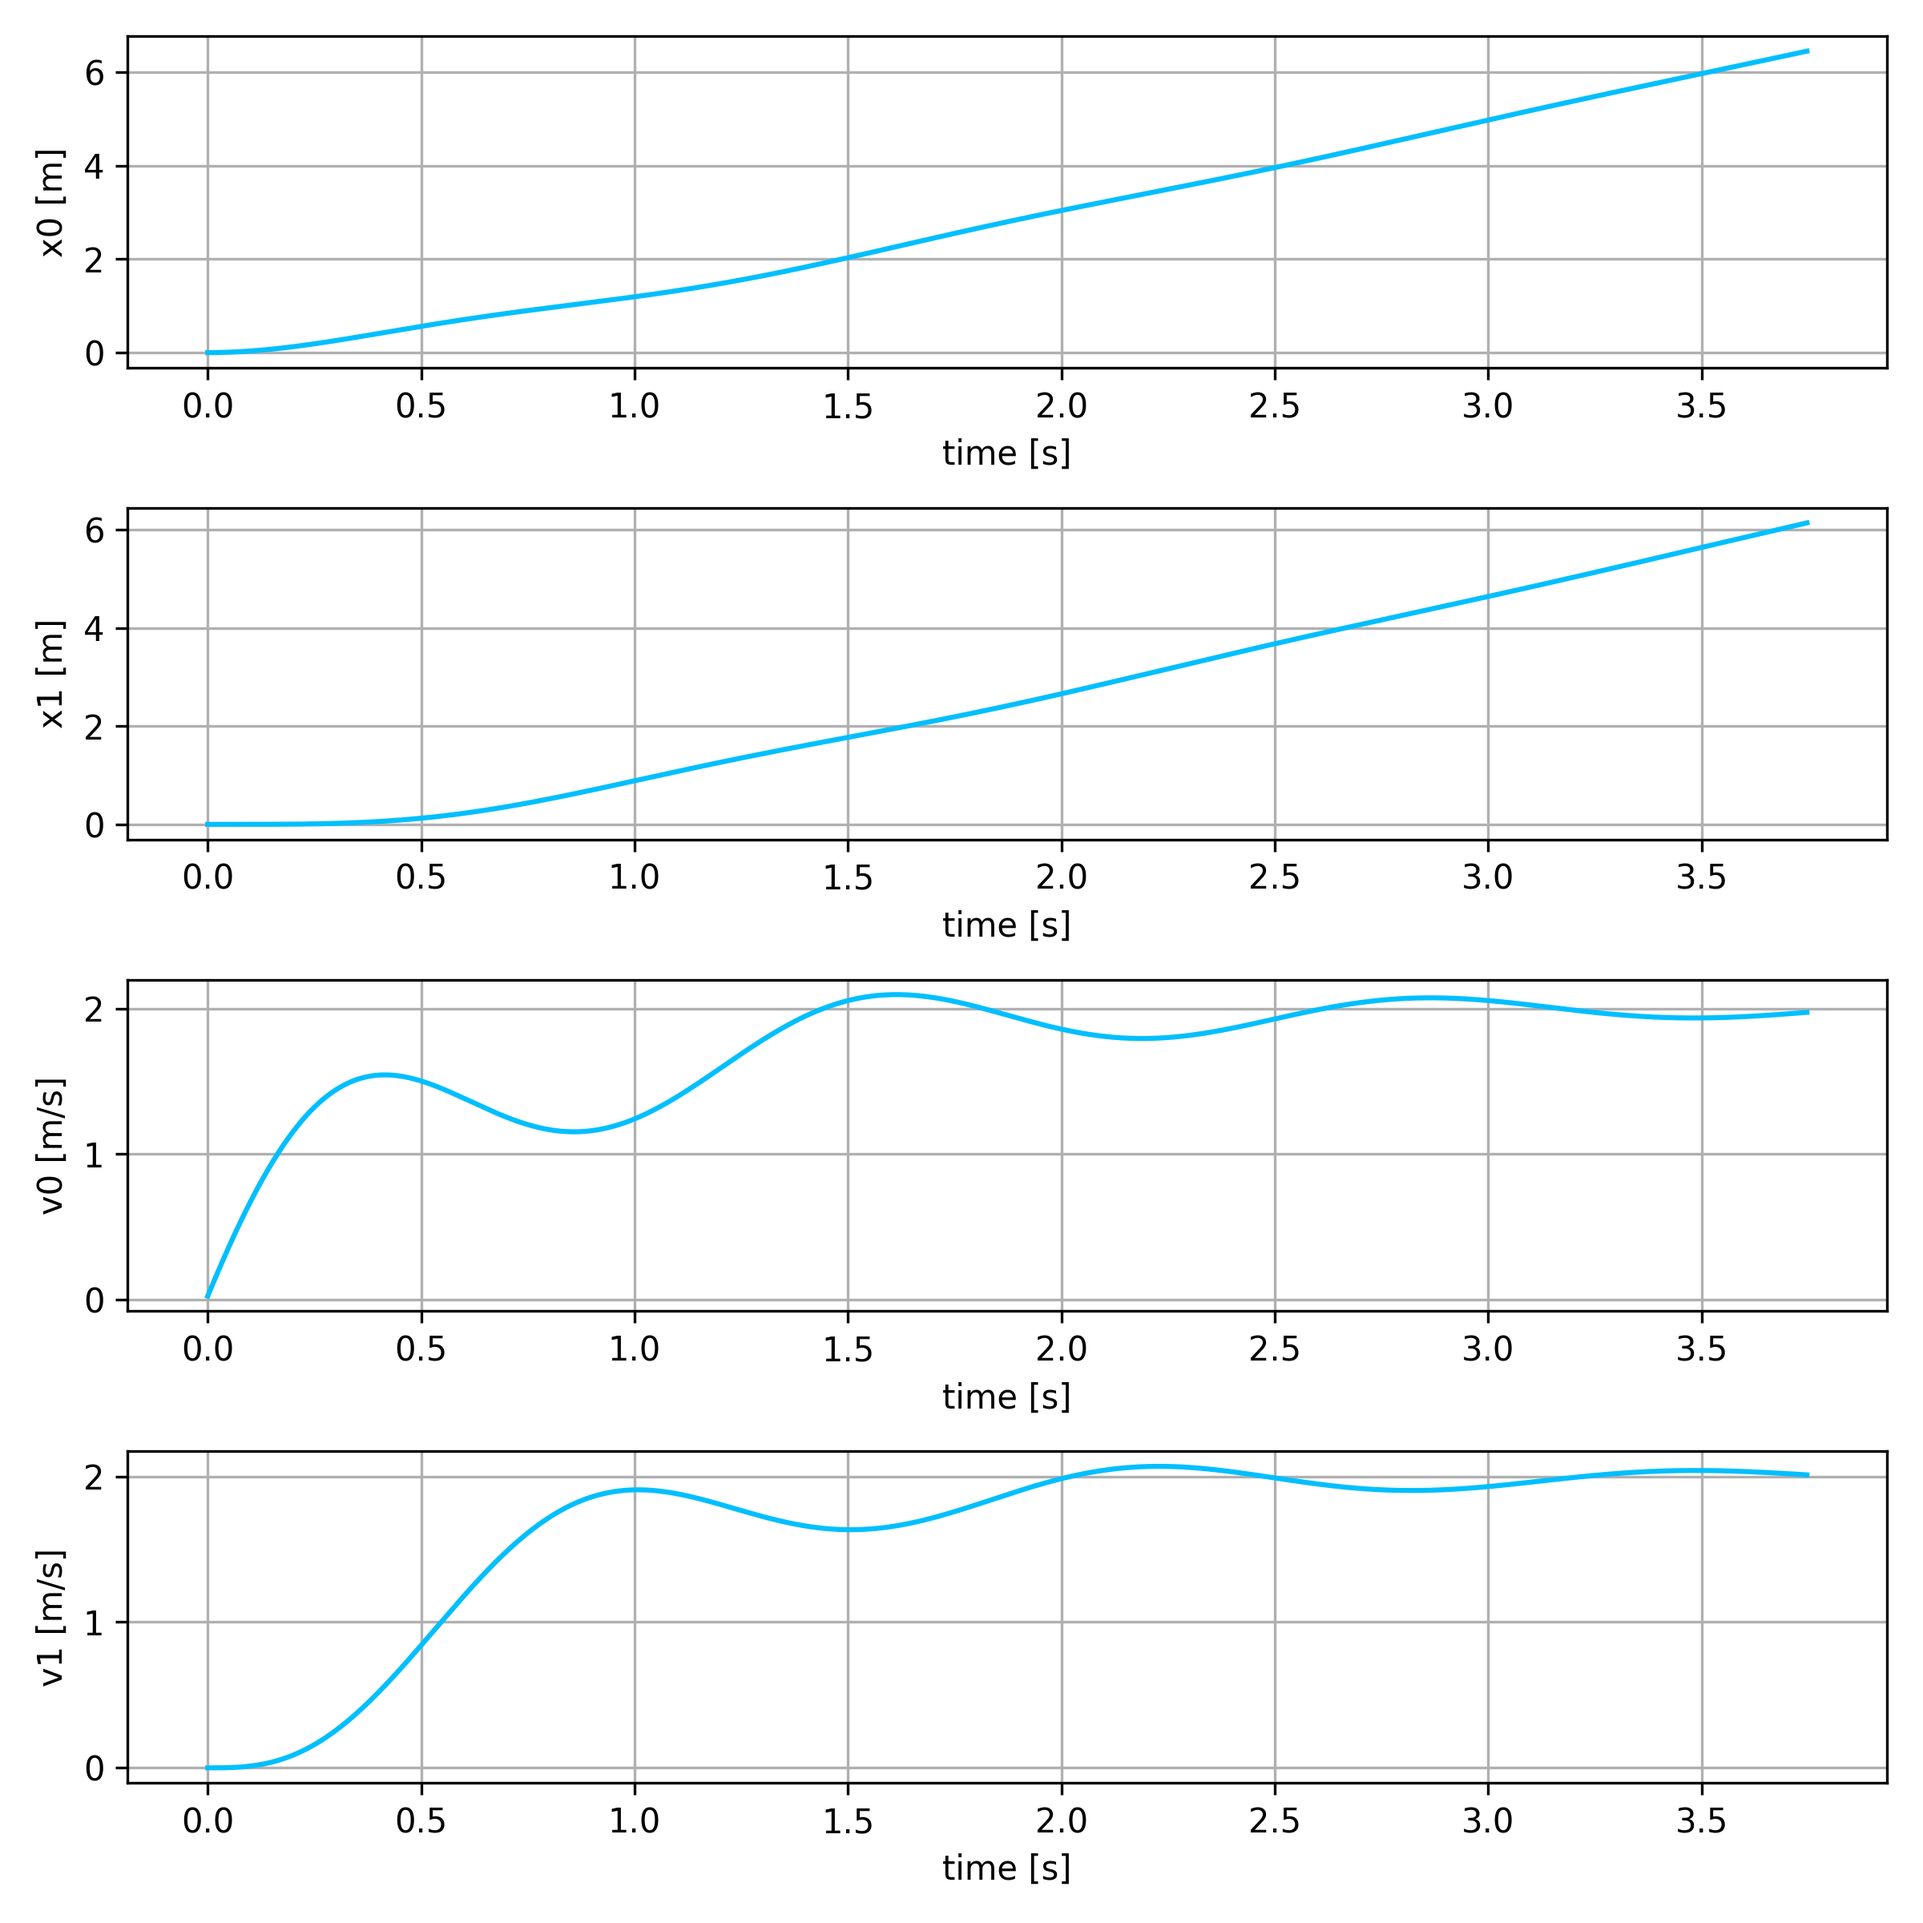
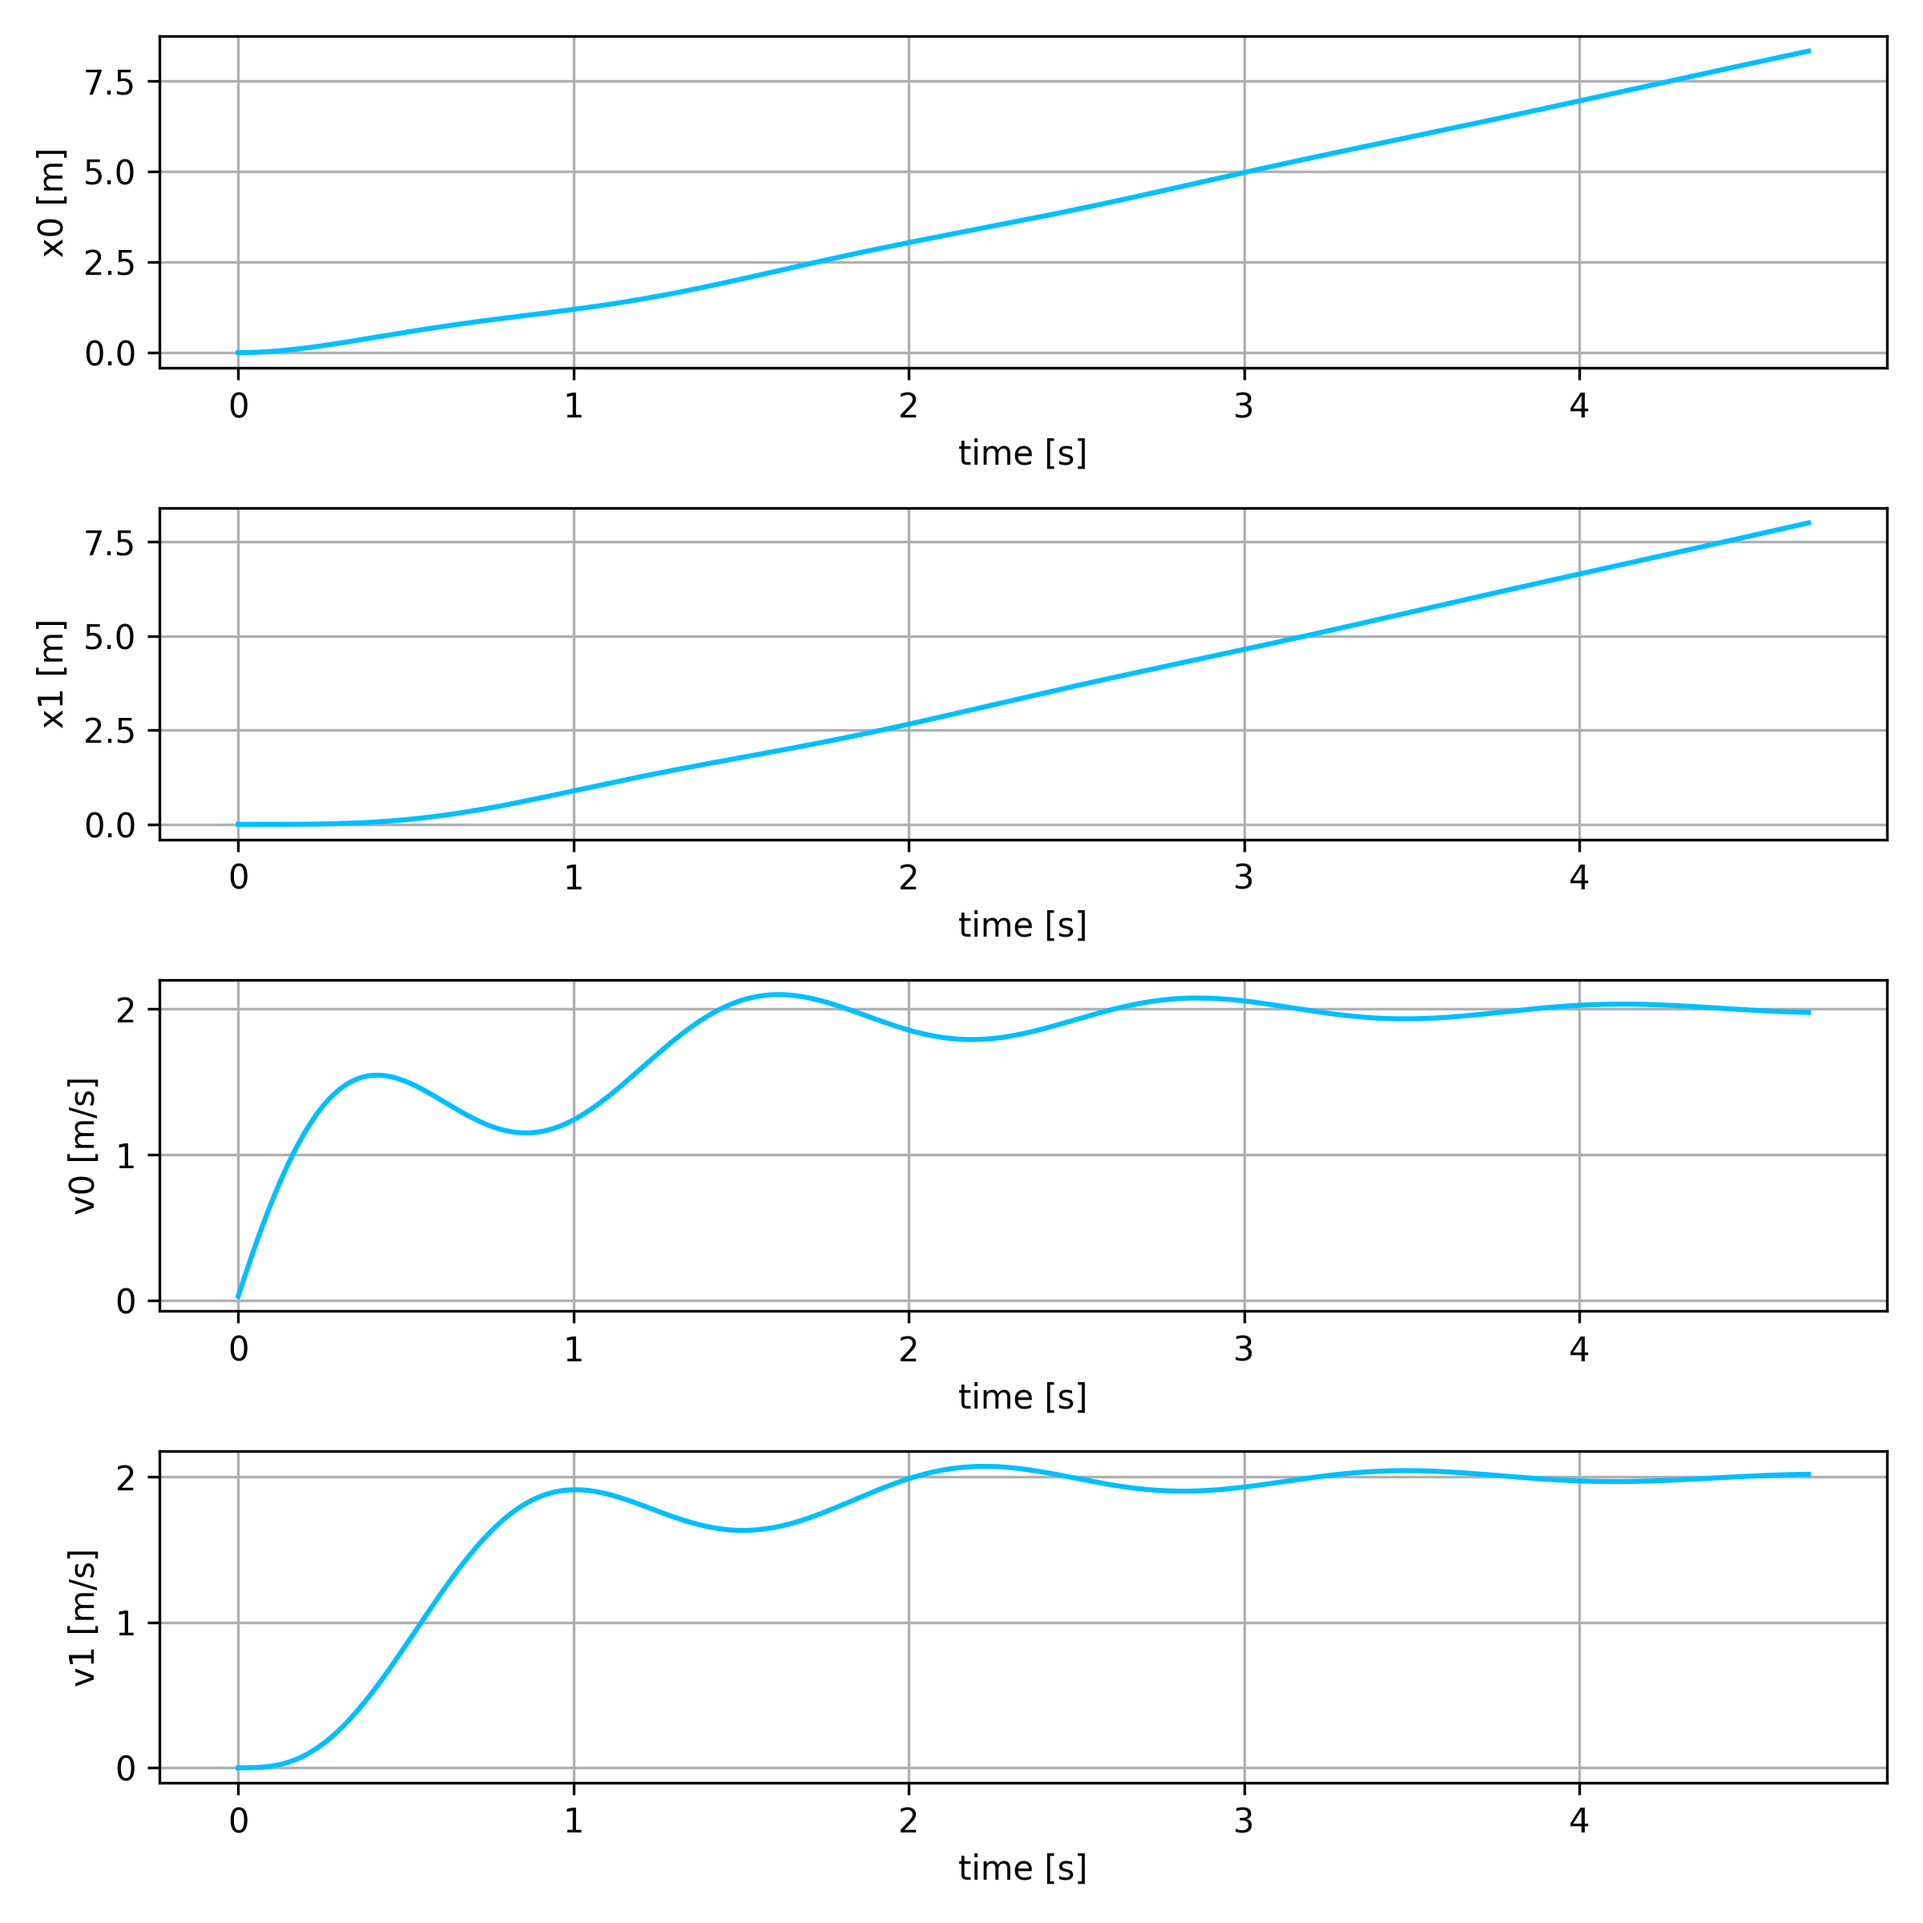
initial, lqr

diff --git a/LibsControl/libs_common/lqg_solver.py b/LibsControl/libs_common/lqg_solver.py
@@ -4,27 +4,29 @@ import matplotlib.pyplot as plt
 
 
 
-class LQRSolver:
+class LQGSolver:
 
     def __init__(self, a, b, c, q, r, dt):
-
         self.a = a
         self.b = b
         self.c = c
-
         self.q = q
         self.r = r
-
         self.dt= dt
+
         
     def solve(self):
         self.k = self._find_k(self.a, self.b, self.q, self.r)
         self.g = self._find_g(self.a, self.b, self.c, self.k)
 
-        return self.k, self.g
+        self.f = self._find_f(self.a, self.c, self.q)
+
+        #self.f = numpy.zeros((4, 2))
+
+        return self.k, self.g, self.f
     
     def closed_loop_response(self, xr, steps = 500):
-        u_result, x_result, y_result = self._closed_loop_response(self.a, self.b, self.c, xr, self.k, self.g, steps)
+        u_result, x_result, y_result = self._closed_loop_response(self.a, self.b, self.c, xr, self.k, self.g, self.f, steps)
 
         return u_result, x_result, y_result
      
@@ -39,7 +41,7 @@ class LQRSolver:
         im_cl = poles_cl.imag
 
         return re_ol, im_ol, re_cl, im_cl
-    
+
     '''
     solve the continuous time lqr controller.
     dx = A x + B u
@@ -74,40 +76,77 @@ class LQRSolver:
 
         return g
     
-    def _closed_loop_response(self, a, b, c, xr, k, g = None, steps = 500):
 
-        x  = numpy.zeros((a.shape[0], 1))
+    def _find_f(self, a, c, q):
 
+        r = numpy.eye(2)*0.01
         
+        # continuous-time algebraic Riccati equation solution
+        p = scipy.linalg.solve_continuous_are(a.T, c.T, q, r)
+
+        f = (p@c.T)@scipy.linalg.inv(r)
+       
+        return f
+    
+    def _closed_loop_response(self, a, b, c, xr, k, g, f, steps = 500):
+
+        x       = numpy.zeros((a.shape[0], 1))
+        x_hat   = numpy.zeros((a.shape[0], a.shape[0]))
+        y_hat   = numpy.zeros((c.shape[0], 1))
+        y       = numpy.zeros((c.shape[0], 1))
+
+        u       = numpy.zeros((b.shape[1], 1))
+
         u_result = numpy.zeros((steps, b.shape[1]))
         x_result = numpy.zeros((steps, a.shape[0]))
         y_result = numpy.zeros((steps, c.shape[0]))
 
-        if g is None:
-            g = numpy.ones_like(xr)
-
+        
         for n in range(steps):
-            #compute error, include gain scaling matrix
-            error = xr*g - x
-
-            #apply controll law
-            u = k@error
-
-           
+        
+            #kalman observer
+            y_hat  = c@x_hat
+            e      = y - y_hat
+            dx_hat = a@x_hat + b@u + f@e
+            x_hat  = x_hat + dx_hat*self.dt
+ 
+            #apply LQR
+            error  = xr*g - x_hat
+            u     = k@error
             
             #system dynamics step
             x     = x + (a@x + b@u)*self.dt
+            y     = c@x 
 
             if n == steps//2:
                 x[1, 0]+= 1
-
-
-            y     = c@x
-
+            
             
             u_result[n] = u[:, 0]
             x_result[n] = x[:, 0]
             y_result[n] = y[:, 0]
 
         return u_result, x_result, y_result
+            
+
+    def _closed_loop_response_lqr(self, a, b, xr, k, steps = 500):
+        x  = numpy.zeros((a.shape[0], 1))
+
+        u_result = numpy.zeros((steps, b.shape[1]))
+        x_result = numpy.zeros((steps, a.shape[0]))
+
+        for n in range(steps):
+            #compute error, include gain scaling matrix
+            error = xr - x
+
+            #apply controll law
+            u = k@error
+            
+            #system dynamics step
+            x = x + (a@x + b@u)*self.dt
+
+            u_result[n] = u[:, 0]
+            x_result[n] = x[:, 0]
+
+        return u_result, x_result
             

diff --git a/examples/04_lqg_two_carts/lqg_carts.py b/examples/04_lqg_two_carts/lqg_carts.py
@@ -13,6 +13,7 @@ if __name__ == "__main__":
 
     mat_a = numpy.zeros((4, 4))
     mat_b = numpy.zeros((4, 1))
+    mat_c = numpy.zeros((2, 4))
         
 
 
@@ -30,7 +31,13 @@ if __name__ == "__main__":
     mat_b[2][0] = 1.0/m1
 
 
-    dt          = 1.0/256.0
+    mat_c[0][0] = 1.0
+    mat_c[1][1] = 1.0
+
+
+
+
+    dt          = 1.0/256
 
     steps = 1200
 
@@ -40,36 +47,39 @@ if __name__ == "__main__":
     r = numpy.array( [ [0.1] ]) 
 
 
-    ds   = LibsControl.DynamicalSystem(mat_a, mat_b, dt=dt)
+    ds   = LibsControl.DynamicalSystem(mat_a, mat_b, mat_c, dt=dt)
 
+    print(str(ds))
 
     #plot system open loop step response
     u_result, x_result, y_result = ds.step_response(amplitudes = 1, steps=steps)
-    LibsControl.plot_open_loop_response(t_result, y_result, "results/open_loop_response", labels=["x0 [m]", "x1 [m]", "v0 [m/s]", "v1 [m/s]"])
+    LibsControl.plot_open_loop_response(t_result, y_result, "results/open_loop_response") #, labels=["x0 [m]", "x1 [m]"])
 
+
+ 
+    lqg     = LibsControl.LQGSolver(ds.mat_a, ds.mat_b, ds.mat_c, q, r, dt)
+
+    k, g, f = lqg.solve()
 
     
-    lqr = LibsControl.LQRSolver(ds.mat_a, ds.mat_b, ds.mat_c, q, r, dt)
-
-    k, g    = lqr.solve()
-
     #print solved controller matrices
     print("controller\n\n")
     print("k=\n", k, "\n")
     print("g=\n", g, "\n")
+    print("f=\n", f, "\n")
     print("\n\n")
 
-
+    
     #plot poles, both : open and closed loop
-    re_ol, im_ol, re_cl, im_cl = lqr.get_poles()
+    re_ol, im_ol, re_cl, im_cl = lqg.get_poles()
     LibsControl.plot_poles(re_ol, im_ol, re_cl, im_cl, "results/poles.png")
 
-
+    
     #required state
     xr = numpy.array([[0.0, 1.0, 0.0, 0.0]]).T
 
     #step response
-    u_result, x_result, y_result, = lqr.closed_loop_response(xr, steps)
+    u_result, x_result, y_result = lqg.closed_loop_response(xr, steps)
 
     LibsControl.plot_closed_loop_response(t_result, u_result, y_result, "results/closed_loop_response.png", ["force [N]"], ["x0 [m]", "x1 [m]", "v0 [m/s]", "v1 [m/s]"] )
     

diff --git a/LibsControl/libs_common/dynamical_system.py b/LibsControl/libs_common/dynamical_system.py
@@ -17,10 +17,17 @@ u.shape = (inputs_count, 1)
 class DynamicalSystem:
 
 
-    def __init__(self, mat_a, mat_b, dt):
+    def __init__(self, mat_a, mat_b, mat_c = None, dt = 0.001):
 
         self.mat_a = mat_a
         self.mat_b = mat_b
+
+        #choose full state output if not output matrix provided
+        if mat_c is not None:
+            self.mat_c = mat_c
+        else:
+            self.mat_c = numpy.eye(self.mat_a.shape[0])
+
         self.dt    = dt
 
     def __repr__(self) -> str:
@@ -39,24 +46,38 @@ class DynamicalSystem:
             result+= "\n"
         result+= "\n"
 
+        result+= "c = \n"
+        for j in range(self.mat_c.shape[0]):
+            for i in range(self.mat_c.shape[1]):
+                result+= str(round(self.mat_c[j][i], 5)) + " "
+            result+= "\n"
+        result+= "\n" 
+
         return result
 
+    def forward(self, x, u):
+        x_new   = x + (self.mat_a@x + self.mat_b@u)*self.dt
+        y       = self.mat_c@x_new
+
+        return x_new, y
 
     def step_response(self, amplitudes, steps = 1000):
         x        = numpy.zeros((self.mat_a.shape[0], 1))
         u        = amplitudes*numpy.ones((self.mat_b.shape[1], 1))
 
-        x_result = numpy.zeros((steps, self.mat_a.shape[0]))
-        u_result = numpy.zeros((steps, self.mat_b.shape[0]))
 
+        u_result = numpy.zeros((steps, self.mat_b.shape[0]))
+        x_result = numpy.zeros((steps, self.mat_a.shape[0]))
+        y_result = numpy.zeros((steps, self.mat_c.shape[0]))
   
         for n in range(steps):
             #system dynamics step
 
-            x     = x + (self.mat_a@x + self.mat_b@u)*self.dt
+            x, y = self.forward(x, u)
 
             u_result[n] = u[:, 0]
             x_result[n] = x[:, 0]
+            y_result[n] = y[:, 0] 
 
-        return u_result, x_result
+        return u_result, x_result, y_result
     

diff --git a/examples/02_lqr_servo/lqr_servo.py b/examples/02_lqr_servo/lqr_servo.py
@@ -33,12 +33,12 @@ if __name__ == "__main__":
 
 
     #plot system open loop step response
-    u_result, x_result = ds.step_response(amplitudes = 1.0, steps=10000)
-    LibsControl.plot_open_loop_response(t_result, x_result, "results/open_loop_response", labels=["velocity rad/s", "position rad"])
+    u_result, x_result, y_result = ds.step_response(amplitudes = 1.0, steps=10000)
+    LibsControl.plot_open_loop_response(t_result, y_result, "results/open_loop_response", labels=["velocity rad/s", "position rad"])
 
 
     
-    lqr = LibsControl.LQRSolver(ds.mat_a, ds.mat_b, q, r, dt)
+    lqr = LibsControl.LQRSolver(ds.mat_a, ds.mat_b, ds.mat_c, q, r, dt)
 
     k, g    = lqr.solve()
 
@@ -58,6 +58,6 @@ if __name__ == "__main__":
     xr = numpy.array([[0.0, 1.0]]).T
 
     #step response
-    u_result, x_result = lqr.closed_loop_response(xr, steps)
+    u_result, x_result, y_result = lqr.closed_loop_response(xr, steps)
 
-    LibsControl.plot_closed_loop_response(t_result, u_result, x_result, "results/closed_loop_response.png", ["voltage [V]"], ["velocity, [rad/s]", "position [rad]"] )
+    LibsControl.plot_closed_loop_response(t_result, u_result, y_result, "results/closed_loop_response.png", ["voltage [V]"], ["velocity, [rad/s]", "position [rad]"] )

diff --git a/examples/01_lqr_rc/lqr_rc.py b/examples/01_lqr_rc/lqr_rc.py
@@ -27,12 +27,12 @@ if __name__ == "__main__":
 
 
     #plot system open loop step response
-    u_result, x_result = ds.step_response(amplitudes = 1.0, steps=10000)
-    LibsControl.plot_open_loop_response(t_result, x_result, "results/open_loop_response", labels=["voltage [V]"])
+    u_result, x_result, y_result = ds.step_response(amplitudes = 1.0, steps=10000)
+    LibsControl.plot_open_loop_response(t_result, y_result, "results/open_loop_response", labels=["voltage [V]"])
 
 
     
-    lqr = LibsControl.LQRSolver(ds.mat_a, ds.mat_b, q, r, dt)
+    lqr = LibsControl.LQRSolver(ds.mat_a, ds.mat_b, ds.mat_c, q, r, dt)
 
     k, g    = lqr.solve()
 
@@ -52,7 +52,7 @@ if __name__ == "__main__":
     xr = numpy.array([[1.0]]).T
 
     #step response
-    u_result, x_result = lqr.closed_loop_response(xr, steps)
+    u_result, x_result, y_result, = lqr.closed_loop_response(xr, steps)
 
     LibsControl.plot_closed_loop_response(t_result, u_result, x_result, "results/closed_loop_response.png", ["voltage [V]"], ["voltage [V]"] )
 

diff --git a/LibsControl/libs_common/__init__.py b/LibsControl/libs_common/__init__.py
@@ -1,2 +1,3 @@
 from .dynamical_system  import *
 from .lqr_solver        import *
+from .lqg_solver        import *
